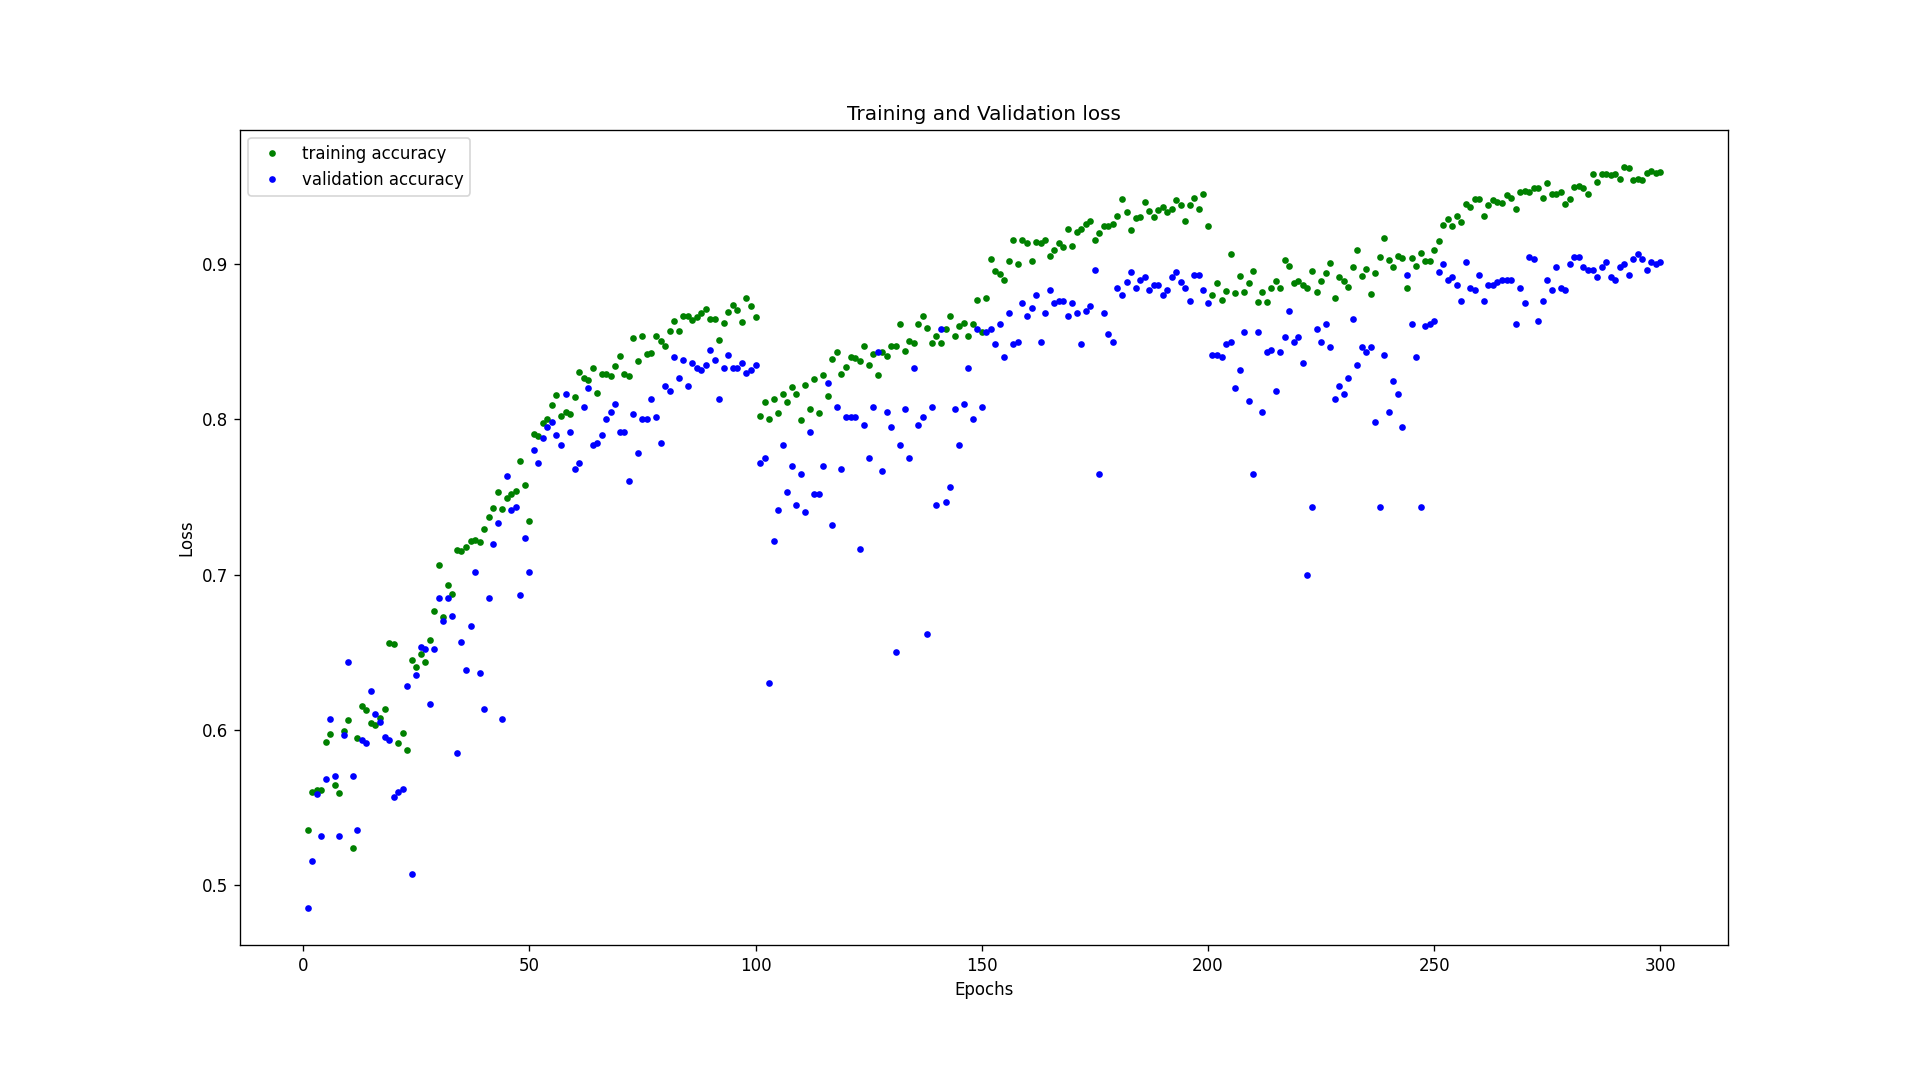
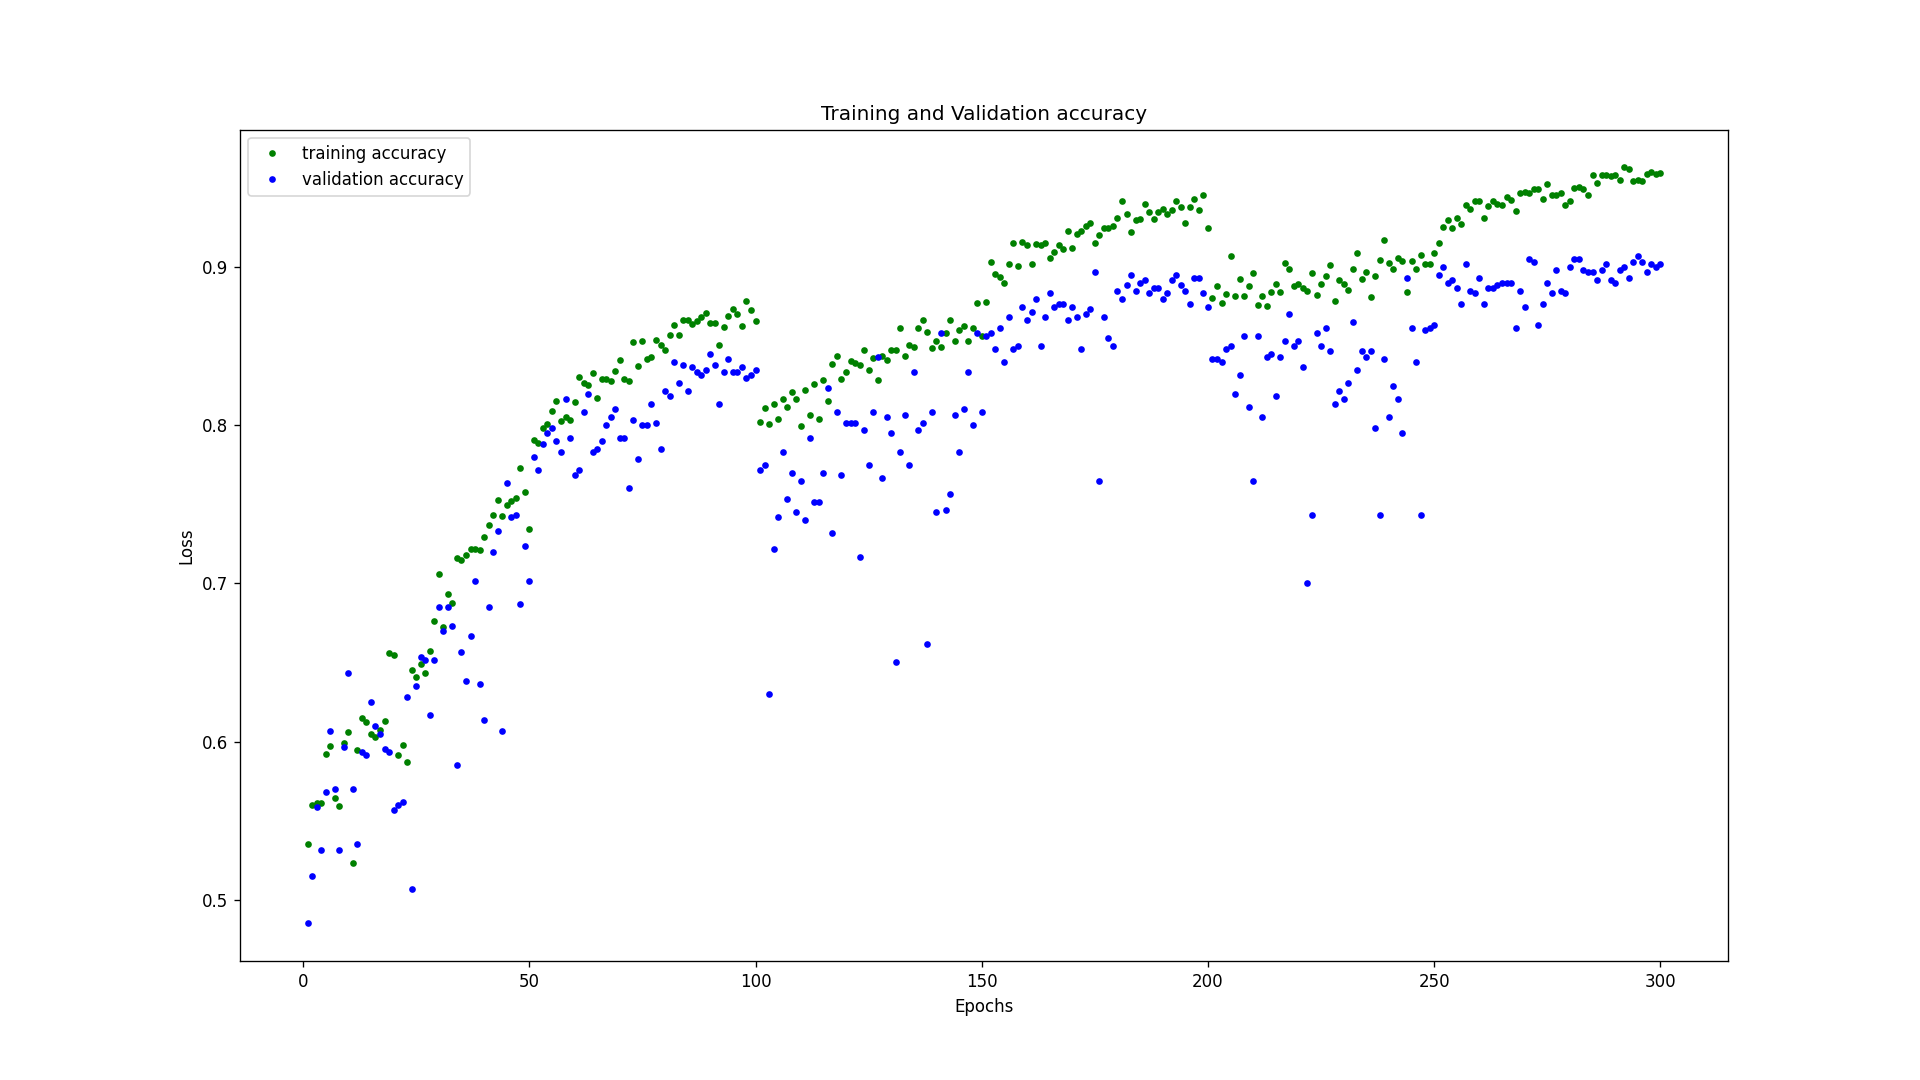
Fixed some bugs at visualization of results

diff --git a/CatVsDog_toyProject_acc92/py_code/training_plotter.py b/CatVsDog_toyProject_acc92/py_code/training_plotter.py
@@ -2,6 +2,8 @@ from json import loads
 from matplotlib import pyplot as plt
 import typing
 
+History_Path: str = "../CNN_training_history.json"
+
 # the class for visualization of our training
 class NN_training_history_plotter():
 
@@ -31,7 +33,6 @@ class NN_training_history_plotter():
         plt.ylabel('Loss')
         plt.legend()
         plt.savefig(saving_path)
-        #plt.show()
 
     # Plot accuracies
     def save_acc_fig(self, saving_path: str):
@@ -40,9 +41,14 @@ class NN_training_history_plotter():
         plt.rcParams['savefig.facecolor'] = 'white'
         plt.plot(epochs, self.t_acc, 'g.', label='training accuracy')
         plt.plot(epochs, self.v_acc, 'b.', label='validation accuracy')
-        plt.title('Training and Validation loss')
+        plt.title('Training and Validation accuracy')
         plt.xlabel('Epochs')
         plt.ylabel('Loss')
         plt.legend()
         plt.savefig(saving_path)
-        #plt.show()
+
+
+if __name__ == "__main__":
+    plotter = NN_training_history_plotter(jsonPath=History_Path)
+    plotter.save_loss_fig('../CNN_300epochs_loss.png')
+    plotter.save_acc_fig('../CNN_300epochs_acc.png')

diff --git a/CatVsDog_toyProject_acc92/py_code/tf_keras_main.py b/CatVsDog_toyProject_acc92/py_code/tf_keras_main.py
@@ -18,8 +18,8 @@ Image_Height=360
 Batch_Size = 32
 Image_Size=(Image_Width,Image_Height)
 Image_Channels=3
-Model_Path: str = "dog_cat_adam_aug_CNN.h5"
-History_Path: str = "CNN_training_history.json"
+Model_Path: str = "../dog_cat_adam_aug_CNN.h5"
+History_Path: str = "../CNN_training_history.json"
 
 def fitted_model(model: keras.models.Sequential, lr: float, train_imgs: keras.preprocessing.image.DirectoryIterator, val_imgs: keras.preprocessing.image.DirectoryIterator) -> typing.Tuple:
     model.compile(optimizer=Adam(learning_rate=lr), loss='binary_crossentropy', metrics=["accuracy"])
@@ -83,10 +83,6 @@ if __name__ == '__main__':
     saved_model = load_model(Model_Path)
     acc = saved_model.evaluate(test_img_flow, verbose=0)[1]
     print(f"Final accuracy on the test dataset after {str(len(training_history['loss']))} epochs: {str(round(acc, 4)*100)}")
-    # Visualization of training/validation loss/accuracy
-    plotter = NN_training_history_plotter(History_Path)
-    plotter.save_loss_fig('./CNN_300epochs_loss.png')
-    plotter.save_acc_fig('./CNN_300epochs_acc.png')
 
 
 

diff --git a/pneunomiaXray_toyProject_acc92/py_code/visualization.py b/pneunomiaXray_toyProject_acc92/py_code/visualization.py
@@ -56,7 +56,7 @@ class NN_model_plotter():
         plt.rcParams['savefig.facecolor'] = 'white'
         plt.plot(epochs, self.t_acc, 'g.', label='training accuracy')
         plt.plot(epochs, self.v_acc, 'b.', label='validation accuracy')
-        plt.title('Training and Validation loss')
+        plt.title('Training and Validation accuracy')
         plt.xlabel('Epochs')
         plt.ylabel('Loss')
         plt.legend()
